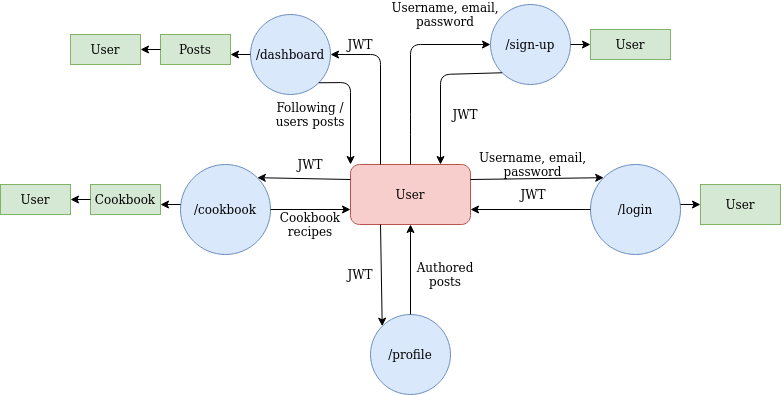
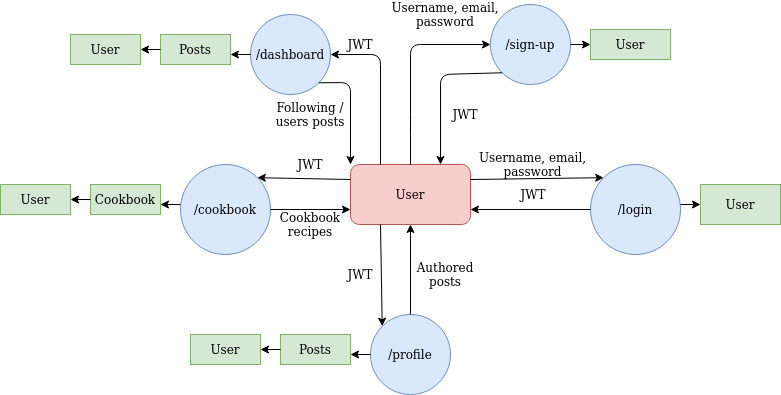
added trello pic, updated diagram pics and some minor changes to readme

Changed region(s): [[0.2458, 0.8203, 0.4609, 0.9418]]

diff --git a/README.md b/README.md
@@ -1,6 +1,6 @@
 # Roastme!
 
-A social cookbook. Perhaps a social library of social cookbooks.
+**A social cookbook. Perhaps a social library of social cookbooks.**
 
 Users can create a recipe using an intuitive tool set, refine it as it evolves, and ultimately publish and share it in an attractive blog format designed for sharing on your favourite social media platforms.
 
@@ -8,7 +8,7 @@ The ultimate goal is a sort of github for recipes. Each recipe maintains a compl
 
 ## Purpose
 
-Cuisine is arguably the only thing all the myriad cultures and creeds in this world can agree on and bond over.
+Cuisine is arguably the only thing all the myriad of cultures and creeds in this world can agree on and bond over.
 
 Recipes have deep roots in culture, as reflected in the huge swaths of text one finds when they look up any recipe ("skip to ingredients" please).
 
@@ -27,7 +27,7 @@ We are [actively][1] [researching][2] [ways][3] users might want to interact wit
 ### MVP features
 
 - Mobile first
-- Faves - like recipe bookmarks
+- Favourites - like recipe bookmarks
 - Image uploading / Amazon S3
 - Heroku / Netlify deployment
 - User rating
@@ -66,20 +66,24 @@ Netlify
 
 ![Application Architecture Diagram](./docs/ArchitectureDiagram.png)
 
+## ERD
+
+![ERD](./docs/Roastme!.png)
+
 ## User stories
 
 ### Steve the blogger
-Steve wants to blog about his cooking adventures, with an eye to becoming a geniune instagram influencer. he would honestly just like a way to turn his recipe process into a blog post with pics and everything else and publish the whole thing, so ideally he'd have a tool that both guides him through the process and is able to output a sort of public view of it that includes his ramblings about travelling in tuscany, and how his nonna used to cook, etc etc. if his recipe tracker can do this he's be overjoyed.
+Steve wants to blog about his cooking adventures, with an eye to becoming a geniune instagram influencer. He would honestly just like a way to turn his recipe process into a blog post with pics and everything else and publish the whole thing, so ideally he'd have a tool that both guides him through the process and is able to output a sort of public view of it that includes his ramblings about travelling in tuscany, and how his nonna used to cook, etc etc. If his recipe tracker can do this he's be overjoyed.
 
 ### Lucy the food explorer
-Lucy wants to develop her own take on a recipe she had at a restaurant. there's scant info online and most of it is people with no idea. she embarks on an iterative process of juggling different amounts of different things, scribbling notes down etc.
-in the end after several attempts she has something that works, but it's a long list on the back of an envelope in arbitrary units. to lock it down she re-makes the recipe one more time, weighing each ingredient carefully. the recipe app should give access to the whole process here, allowing pics of various steps etc, and presenting the current iteration in a form where it can be re-made at any scale by just multiplying everything.
+Lucy wants to develop her own take on a recipe she had at a restaurant. There's scant info online and most of it is people with no idea. She embarks on an iterative process of juggling different amounts of different things, scribbling notes down etc.
+in the end after several attempts she has something that works, but it's a long list on the back of an envelope in arbitrary units. To lock it down she re-makes the recipe one more time, weighing each ingredient carefully. The recipe app should give access to the whole process here, allowing pics of various steps etc, and presenting the current iteration in a form where it can be re-made at any scale by just multiplying everything.
 
 ### Jarvis the 9 year old cheflet
-Jarvis likes to cook, but he's 9 years old. he forgets to write anything down and is frustrated when he wants to make something again that he loved. he needs a way to get it all down easily and read it all back in a way that is simple enough for a 9yo
+Jarvis likes to cook, but he's 9 years old. he forgets to write anything down and is frustrated when he wants to make something again that he loved. He needs a way to get it all down easily and read it all back in a way that is simple enough for a 9 year old.
 
 ### Adrian the clueless but well-meaning
-Adrian can't remember recipes well. he needs an assistant that will tell him exactly what to do at every step or he will simply screw it up. this goes for ingredients and process alike. he likes foody stuff but is clueless and would honestly rather be coding or pontificating on twitter than going through the actual "cooking" part of cooking.
+Adrian can't remember recipes well. He needs an assistant that will tell him exactly what to do at every step or he will simply screw it up. This goes for ingredients and process alike. He likes foody stuff but is clueless and would honestly rather be coding or pontificating on twitter than going through the actual "cooking" part of cooking.
 
 ## Wireframes
 
@@ -93,5 +97,7 @@ Adrian can't remember recipes well. he needs an assistant that will tell him exa
 ![Desktop UI - last 2 views](./docs/wireframe-2-09-10.png)  
 
 ## Trello management
+
+![trello board](./docs/trello.png)
 
 ![Screenshot of Trello board for Roastme project pt1, taken on 16 july 2020](./docs/trello-screengrab.png)
